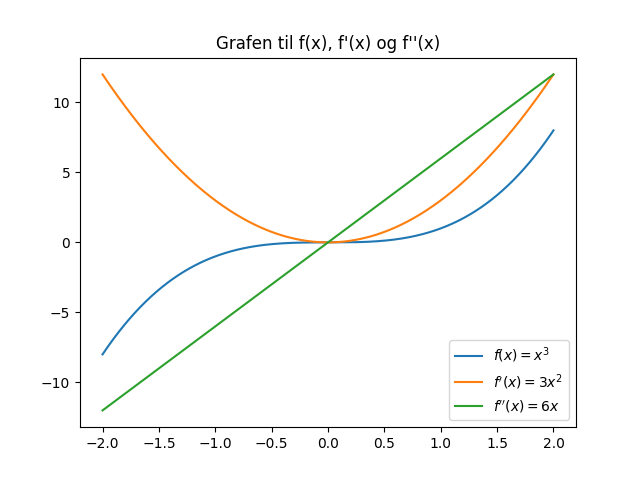
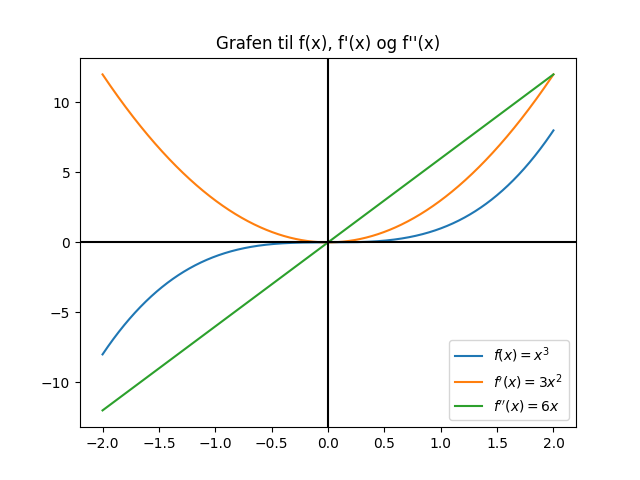
:bug: fix origin axis

Changed region(s): [[0.125, 0.5, 0.9062, 0.5312]]

diff --git a/Tegning-av-grafer/oppgave1.py b/Tegning-av-grafer/oppgave1.py
@@ -25,6 +25,9 @@ def main() -> None:
     # same plot
     for y, label in zip((y1, y2, y3), labels):
         plt.plot(x, y, label=label)
+
+    plt.axhline(y=0, color="black")
+    plt.axvline(x=0, color="black")
     plt.title("Grafen til f(x), f'(x) og f''(x)")
     plt.legend()
 
@@ -42,6 +45,8 @@ def main() -> None:
         ax[index].set_title(label)
         ax[index].plot(x, y, color, label=label)
         ax[index].legend()
+        ax[index].axhline(y=0, color="black")
+        ax[index].axvline(x=0, color="black")
 
     fig.suptitle("Grafen til f(x), f'(x) og f''(x)")
     plt.subplots_adjust(top=0.85)
